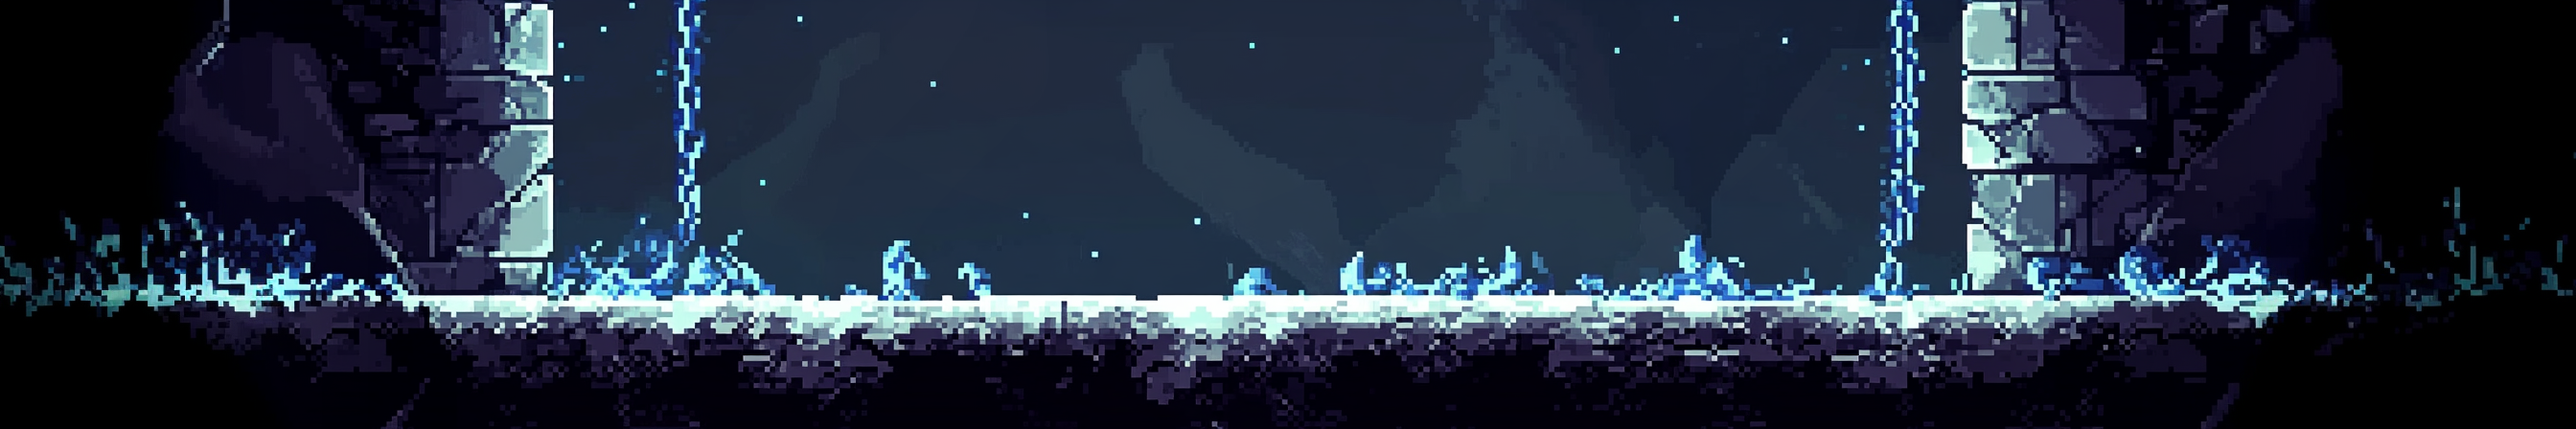
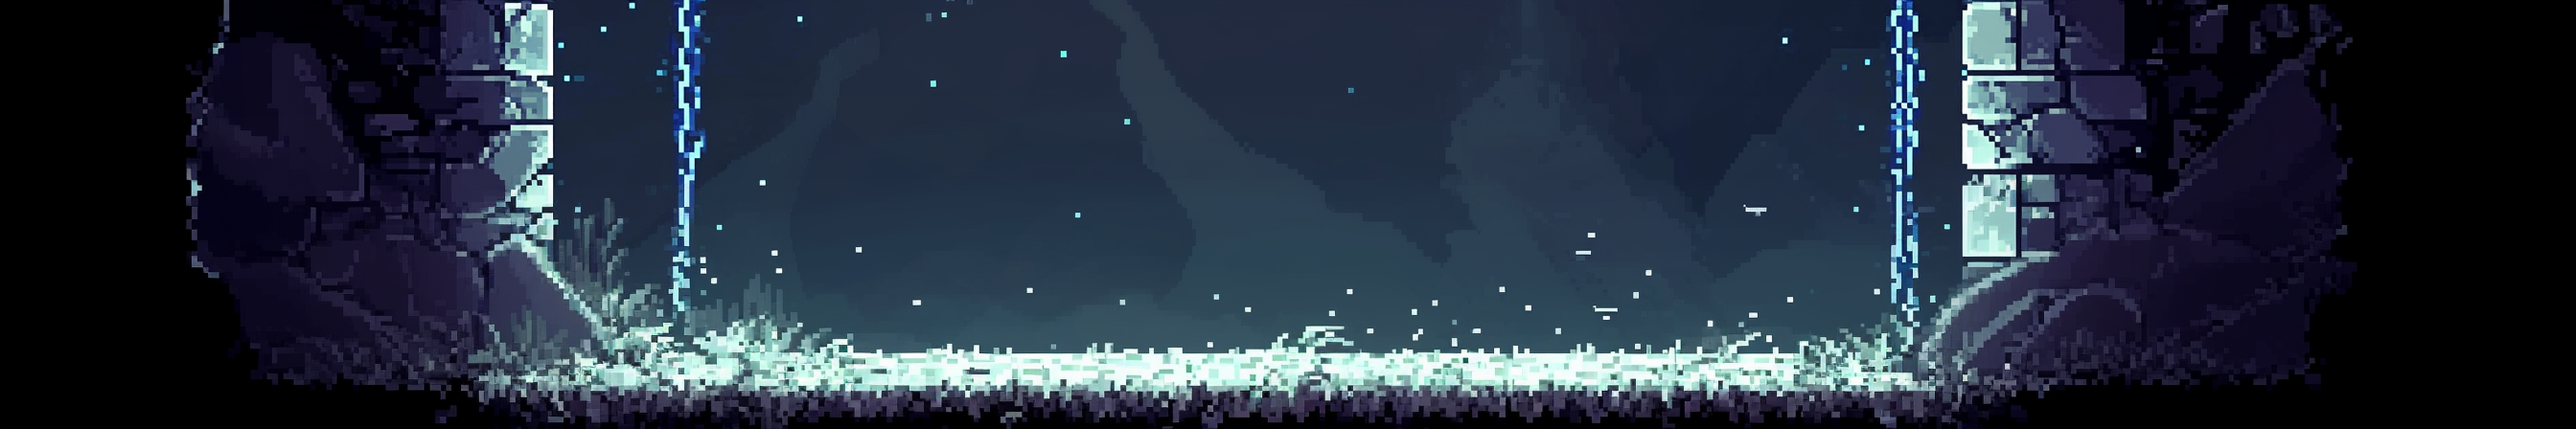
added some clean animations

diff --git a/frontend/src/scenes/stages.tsx b/frontend/src/scenes/stages.tsx
@@ -36,7 +36,7 @@ export class StageOne extends BaseScene {
     }
   }
 
-  protected createBackground(): void {
+  protected createBackground() {
     this.background = this.add.image(0, 32, "stage_one").setOrigin(0, 0)
     const scaleRatio = (this.cameras.main.height - 32) / this.background.height;
     this.background.setScale(scaleRatio);
@@ -103,7 +103,7 @@ export class StageTwo extends BaseScene {
 
   protected createBackground(): void {
     this.background = this.add.image(0, 32, "stage_two").setOrigin(0, 0)
-    const scaleRatio = (this.cameras.main.height + 32) / this.background.height;
+    const scaleRatio = (this.cameras.main.height - 32) / this.background.height;
     this.background.setScale(scaleRatio);
   }
 
@@ -115,10 +115,12 @@ export class StageTwo extends BaseScene {
         this.cameras.main.height - 150,
         "goblin"
       ) as MobSprite;
+      mob.setScale(2);
       mob.isInvulnerable = false;
       this.setupMob(mob, mobData);
       this.mobs.push(mob);
     }
+    await super.createMobs()
   }
 
   protected nextScene() {
@@ -168,8 +170,8 @@ export class StageThree extends BaseScene {
     }
   }
 
-  protected createBackground(): void {
-    this.background = this.add.image(0, 0, "stage_three").setOrigin(0, 0)
+  protected createBackground() {
+    this.background = this.add.image(0, 32, "stage_three").setOrigin(0, 0)
     const scaleRatio = (this.cameras.main.height - 32) / this.background.height;
     this.background.setScale(scaleRatio);
   }
@@ -182,9 +184,10 @@ export class StageThree extends BaseScene {
       "boss"
     ) as MobSprite;
     mob.isInvulnerable = false;
-    mob.setScale(2);
+    mob.setScale(4);
     this.setupMob(mob, mobData);
     this.mobs.push(mob);
+    await super.createMobs()
   }
 
   protected nextScene() {
@@ -197,19 +200,52 @@ export class StageFour extends BaseScene {
     super("StageFour")
   }
 
-  protected createBackground(): void {
-    this.background = this.add.image(0, 0, "stage_four.png").setOrigin(0, 0)
+  preload() {
+    this.load.image("stage_four", "/stage_four.png")
+  }
+
+  protected createBackground() {
+    this.background = this.add.image(0, 32, "stage_four").setOrigin(0, 0)
     const scaleRatio = (this.cameras.main.height - 32) / this.background.height;
     this.background.setScale(scaleRatio);
-    const dimOverlay = this.add.rectangle(0, 0, this.cameras.main.width, this.cameras.main.height, 0x000000, 0.5);
-    dimOverlay.setOrigin(0, 0);
-    dimOverlay.setDepth(1);
-    this.add.text(this.cameras.main.width / 4, this.cameras.main.height / 2 - 110, "You've saved the Chainverse,\nreclaiming the Chain Cutter Sword.\nGazing into the void, you mourn the souls lost.\nYou cast the sword into oblivion,\nhoping to never see it again.\nNow rest, my wanderer.\nYour story forever etched into the chain...", {
+
+    const dimOverlay = this.add.rectangle(0, 0, this.cameras.main.width, this.cameras.main.height, 0x000000, 0.5)
+      .setOrigin(0, 0)
+      .setDepth(1)
+      .setScrollFactor(0)
+      .setAlpha(0)
+
+    const story = this.add.text(this.cameras.main.width / 4, this.cameras.main.height / 2 - 110, "You've saved the Chainverse,\nreclaiming the Chain Cutter Sword.\nGazing into the void, you mourn the souls lost.\nYou cast the sword into oblivion,\nhoping to never see it again.\nNow rest, my wanderer.\nYour story forever etched into the chain...", {
       fontFamily: "VP-Pixel",
       fontSize: "32px",
       color: "#ffffff",
       padding: { x: 20, y: 10 }
     })
     .setDepth(1000)
+    .setScrollFactor(0)
+    .setInteractive()
+    .setAlpha(0); 
+
+    // Fade in effect
+    this.tweens.add({
+      targets: [story, dimOverlay],
+      alpha: 1,
+      duration: 3000,
+      ease: 'Power2',
+      onComplete: () => {
+        this.time.delayedCall(8000, () => {
+          this.tweens.add({
+            targets: [story, dimOverlay],
+            alpha: 0,
+            duration: 3000,
+            ease: "Power2",
+            onComplete: () => {
+              story.destroy();
+              dimOverlay.destroy();
+            }
+          });
+        });
+      }
+    });
   }
 }

diff --git a/frontend/src/scenes/base.tsx b/frontend/src/scenes/base.tsx
@@ -16,6 +16,7 @@ export class BaseScene extends Phaser.Scene {
   protected killedMobs: string[] = [];
   protected bounderies!: Phaser.Physics.Arcade.StaticGroup;
 
+  protected BASE_DAMAGE = 10
   protected PLAYER_SPEED = 300;
   protected JUMP_VELOCITY = -600;
   protected isAttacking = false;
@@ -118,6 +119,35 @@ export class BaseScene extends Phaser.Scene {
       padding: { x: 0, y: 0 }
     })
     .setScrollFactor(0)
+    const home = this.add.text(1180, 0, "⌂", {
+      fontSize: "32px",
+      color: "#ffffff",
+      padding: { x: 2, y: 0 }
+    })
+    .setScrollFactor(0)
+    .setInteractive()
+
+    home.on("pointerdown", () => {
+      const dimOverlay = this.add.rectangle(0, 0, this.cameras.main.width, this.cameras.main.height, 0x000000, 1)
+        .setOrigin(0, 0)
+        .setDepth(1)
+        .setScrollFactor(0)
+        .setAlpha(0)
+
+      this.tweens.add({
+        targets: [dimOverlay],
+        alpha: 1,
+        duration: 3000,
+        ease: "Power2",
+        onComplete: () => {
+          dimOverlay.destroy();
+          this.game.destroy(true);
+          window.location.href = "/"
+        },
+      });
+      
+    })
+
   }
 
   protected createBackground(): void {
@@ -231,7 +261,7 @@ export class BaseScene extends Phaser.Scene {
     // Increase attack hitbox
     const originalWidth = this.player.body.width;
     const originalHeight = this.player.body.height
-    const attackWidth = originalWidth * 1.50; // Increase attack range by 50%
+    const attackWidth = originalWidth * 1.75; // Increase attack range by 75%
     const attackOffset = this.player.flipX ? -attackWidth / 2 : originalWidth / 2;
     this.player.body.setSize(attackWidth / this.player.scale, originalHeight / this.player.scale);
     this.player.body.setOffset(attackOffset, 0);
@@ -256,7 +286,7 @@ export class BaseScene extends Phaser.Scene {
   }
   
   private async damageMob(mob: MobSprite) {
-    const damage = 10; // You can adjust this or make it a class property
+    const damage = this.BASE_DAMAGE * this.playerState.level;
     const currentHealth = mob.healthBar!.getHealth()
     const newHealth = Math.max(currentHealth - damage, 0);
     mob.setData("health", newHealth);
@@ -324,15 +354,19 @@ export class BaseScene extends Phaser.Scene {
   
   private handlePlayerDefeat(): void {
     console.log("Player defeated!");
-    this.player.setVelocity(0, 0);
+
     this.input.keyboard.enabled = false;
+    this.player.play("idle");
+    this.player.setVelocity(0, 0);
   
-    const gameOverText = this.add.text(
+    this.add.text(
       this.cameras.main.centerX,
       this.cameras.main.centerY,
       "Game Over",
       {  fontFamily: "VP-Pixel", fontSize: "64px", color: "#ff0000" }
-    ).setOrigin(0.5);
+    )
+    .setOrigin(0.5)
+    .setScrollFactor(0)
   
     // Add a restart button
     const restartButton = this.add.text(
@@ -340,7 +374,10 @@ export class BaseScene extends Phaser.Scene {
       this.cameras.main.centerY + 100,
       "Restart",
       { fontFamily: "VP-Pixel", fontSize: "32px", color: "#ffffff", backgroundColor: "#000000", padding: { x: 10, y: 5 } }
-    ).setOrigin(0.5).setInteractive();
+    )
+    .setOrigin(0.5)
+    .setInteractive()
+    .setScrollFactor(0)
   
     restartButton.on("pointerdown", () => {
       this.scene.restart();
